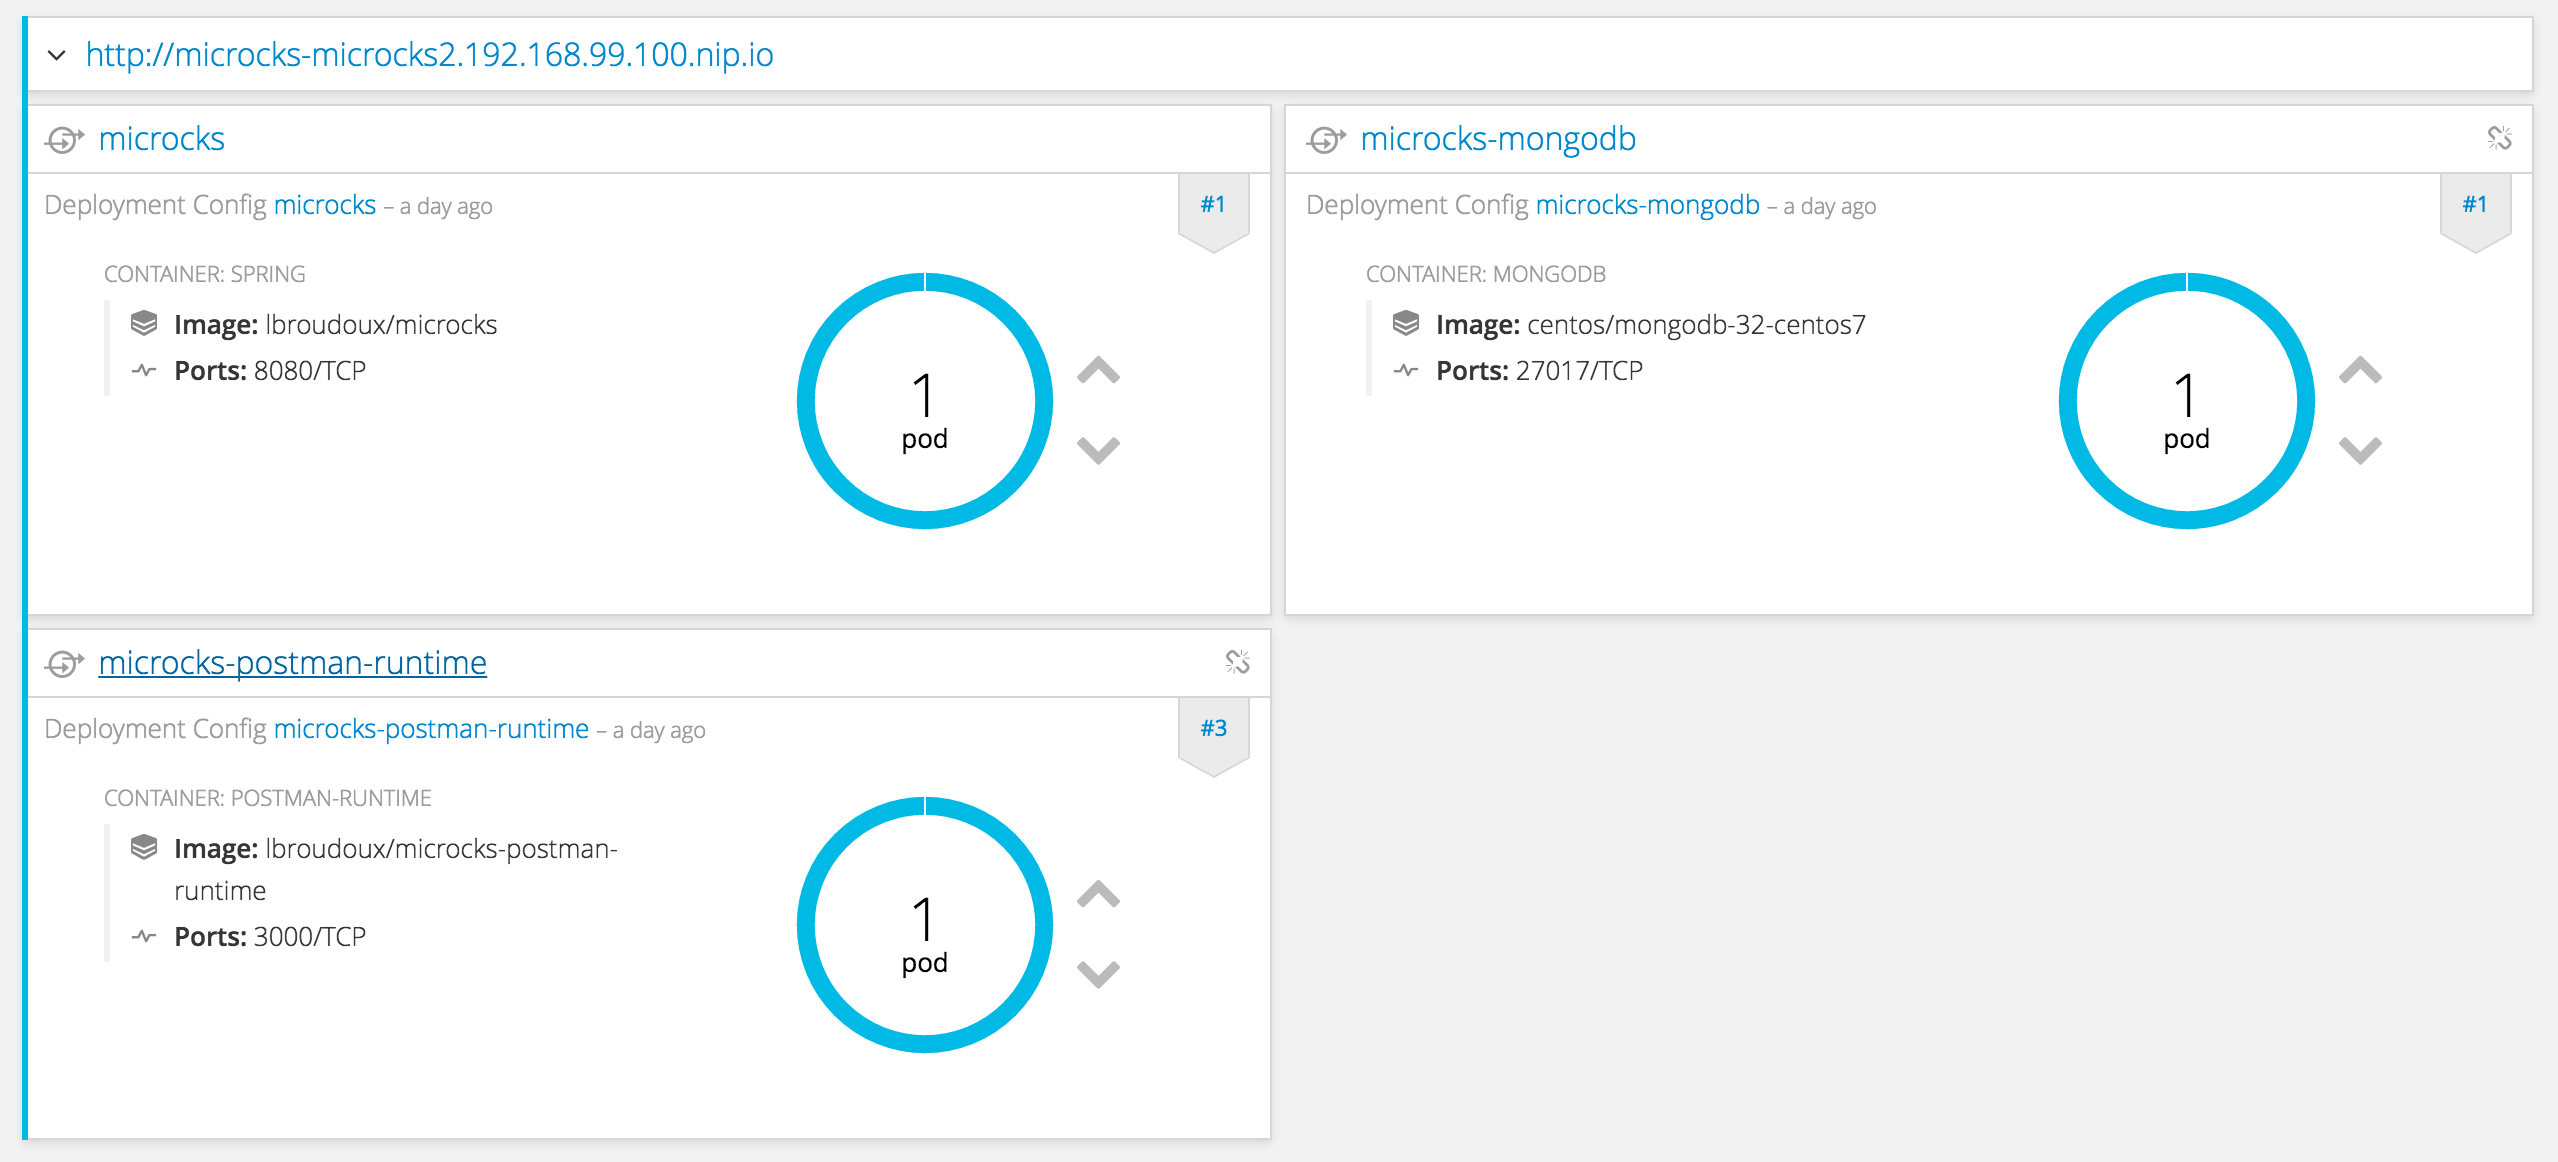
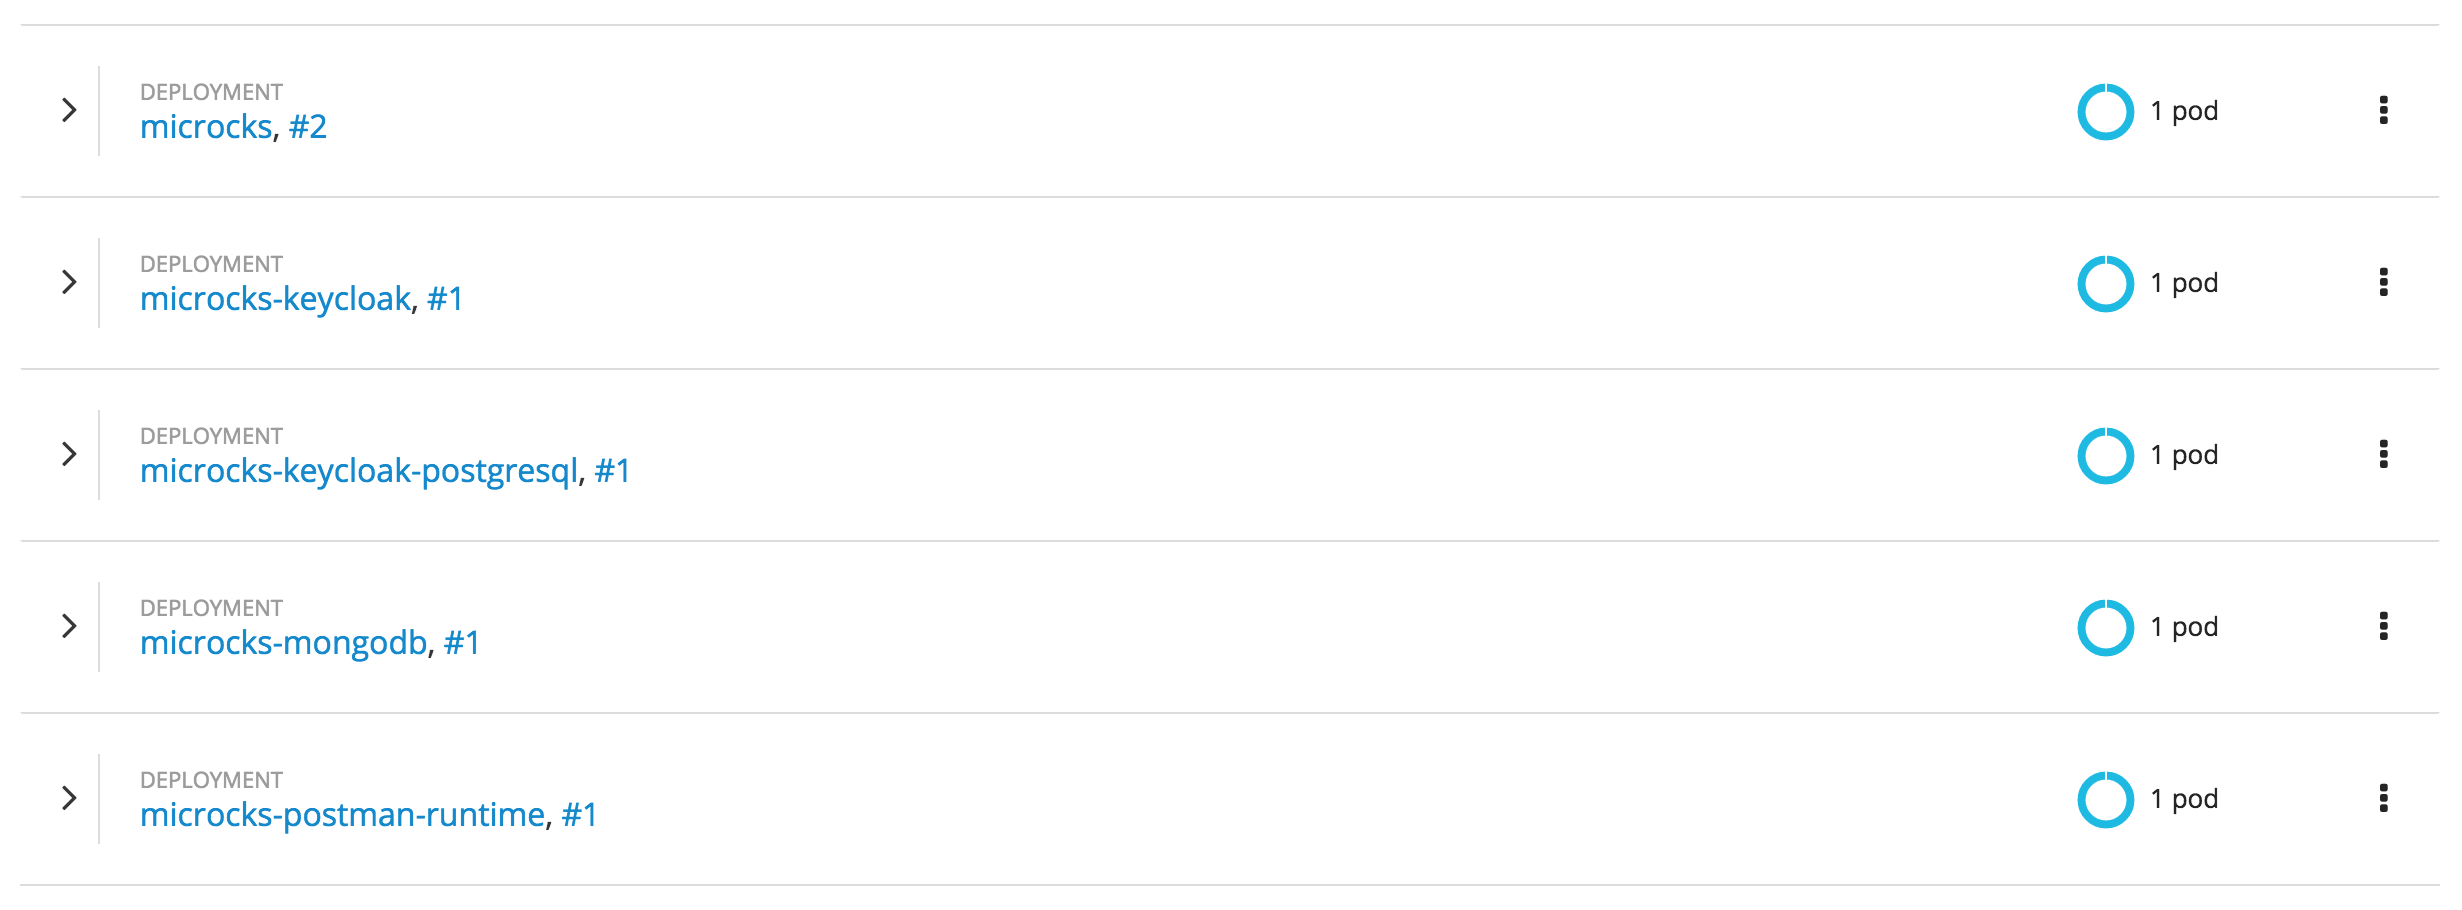
Update documentation on installation

diff --git a/using/index.md b/using/index.md
@@ -24,7 +24,7 @@ title: Getting started
 
 			<h3 class="arvo">Installing on OpenShift</h3>
 			<p>
-				The easiest way of installing Microcks is to do it on OpenShift. It is assumed that you have some kind of OpenShift cluster instance running and available. This instance can take several forms depending on your environment and needs :
+				The easiest way of installing Microcks for production use is to do it on OpenShift. OpenShift in version 3.6 or greater is required. It is assumed that you have some kind of OpenShift cluster instance running and available. This instance can take several forms depending on your environment and needs :
 				<ul>
 					<li> Full blown OpenShift cluster at your site, see how to <a href="https://docs.openshift.com/container-platform/3.3/install_config/index.html">Install OpenShift at your site</a>,</li>
 					<li>Red Hat Container Development Kit on your laptop, see how to <a href="http://developers.redhat.com/products/cdk/get-started/">Get Started with CDK</a>,</li>
@@ -36,32 +36,38 @@ title: Getting started
 				<code>oc create -f https://raw.githubusercontent.com/microcks/microcks/master/openshift-persistent-template.json -n openshift</code><br/>
 
 				<br/>
-				Once this is done can now create a new project and instanciate the template of your choice ; either using the OpenShift web console or the command line.<br/><br/>
+				Once this is done can now create a new project and instanciate the template of your choice ; either using the OpenShift web console or the command line. You will need to fill up some parameters during creation such as:<ul>
+				 	<li>the hostname for routes serving Microcks and embedded Keycloak (typically <code>component_name-project-app_domain</code>),</li>,
+					<li>the URL for joining OpenShift Master,</li>
+					<li>a name for an OAuth Client that will be created apart the app creation.</li>
+				</ul>
+				Typically, you'll got this kind of commands for a local Minishift instance:<br/><br/>
 				<code>oc new-project microcks --display-name="Microcks"</code><br/>
-				<code>oc new-app --template=microcks-persistent</code><br/>
+				<code>oc new-app --template=microcks-persistent --param=APP_ROUTE_HOSTNAME=microcks-microcks.192.168.99.100.nip.io --param=KEYCLOAK_ROUTE_HOSTNAME=keycloak-microcks.192.168.99.100.nip.io --param=OPENSHIFT_MASTER=https://192.168.99.100:8443 --param=OPENSHIFT_OAUTH_CLIENT_NAME=microcks-client</code><br/>
 
 				<br/>
-				After some minutes and components have been deployed, you should end up with a Spring-boot Pod, a MongoDB Pod and a Postman-runtime Pod like in the screenshot below.<br/>
+				After some minutes and components have been deployed, you should end up with a Spring-boot Pod, a MongoDB Pod, a Postman-runtime Pod, a Keycloak Pod and a PostgreSQL Pod like in the screenshot below.<br/>
 			</p>
 			<img src="../assets/images/running-pods.png" class="img-responsive"/>
 			<p>
-				 Now you can retrieve the URL of the created route using <code>oc get routes</code> command and navigate to this URL to get started with Microcks. Depending on your environment, URL should be something like <code>http://microcks-microcks.192.168.99.100.nip.io</code>.
+				 Now you can retrieve the URL of the created route using <code>oc get routes</code> command and navigate to this URL to get started with Microcks. Depending on your environment, URL should be something like <code>http://microcks-microcks.192.168.99.100.nip.io</code>. By default, Microcks integrates with OpenShift identity provider through the use of Keycloak but you may configure some other providers later.
 			</p>
 
 			<h3 class="arvo">Installing using Docker Compose</h3>
 			<p>
-				For those of you familiar with simple Docker Compose, a <source>docker-compose</source> file is available within GitHub repository and can be used to rapidly test up things. First step is to download the file and then to execute docker-compose with local copy like in this commands :<br/><br/>
-				<code>curl -o microcks-mongodb.yml https://raw.githubusercontent.com/microcks/microcks/master/src/main/docker/microcks-mongodb.yml</code><br/>
+				For those of you familiar with simple Docker Compose, a <source>docker-compose</source> file is available within GitHub repository and can be used to rapidly test up things. First step is to download the file and then to execute docker-compose with local files copies like in this commands :<br/><br/>
+				<code>mkdir keycloak-realm && cd keycloak-realm && curl -o microcks-realm-sample.json https://raw.githubusercontent.com/microcks/microcks/master/src/main/docker/keycloak-realm/microcks-realm-sample.json && cd .. && curl -o microcks-mongodb.yml https://raw.githubusercontent.com/microcks/microcks/master/src/main/docker/microcks-mongodb.yml</code><br/>
 				<code>docker-compose -f microcks-mongodb.yml up -d</code><br/>
 
 				<br/>
-				After some minutes and components have been deployed, you should end up with a Spring-boot container, a MongoDB container and a Postman-runtime container like in the trace below. The Microcks application is now available on <code>http://localhost:8080</code> URL.
+				After some minutes and components have been deployed, you should end up with a Spring-boot container, a MongoDB container, a Postman-runtime and a Keycloak container like in the trace below. The default user is <code>admin</code> with <code>123</code> password. The Microcks application is now available on <code>http://localhost:8080</code> URL.
 				<pre><code>
 » docker ps
-CONTAINER ID        IMAGE                                       COMMAND                  CREATED             STATUS              PORTS                    NAMES
-65a8e05866fa        lbroudoux/microcks:latest                   "java '-Dspring.pr..."   8 seconds ago       Up 5 seconds        0.0.0.0:8080->8080/tcp   microcks
-2fed928539f1        mongo:3.3.12                                "/entrypoint.sh mo..."   9 minutes ago       Up 7 seconds        27017/tcp                microcks-mongo
-8e7a71d0fc8d        lbroudoux/microcks-postman-runtime:latest   "node app.js"            9 minutes ago       Up 7 seconds        3000/tcp                 microcks-postman-runtime
+CONTAINER ID        IMAGE                                      COMMAND                  CREATED             STATUS              PORTS                    NAMES
+6a563e9d87c1        microcks/microcks:latest                  "/bin/sh -c 'exec ..."   6 days ago          Up 33 seconds       0.0.0.0:8080->8080/tcp   microcks
+162e99a97a6f        microcks/microcks-postman-runtime:latest   "node app.js"            6 days ago          Up 39 seconds       3000/tcp                 microcks-postman-runtime
+b3cb4840597b        mongo:3.3.12                               "/entrypoint.sh mo..."   6 days ago          Up 39 seconds       27017/tcp                microcks-mongo
+949e0b9bdac6        jboss/keycloak:3.4.0.Final                 "/opt/jboss/docker..."   6 days ago          Up 38 seconds       0.0.0.0:8180->8080/tcp   microcks-keycloak
 				</code></pre>
 			</p>
 

diff --git a/using/dynamic.md b/using/dynamic.md
@@ -13,7 +13,7 @@ title: Getting dynamic mocks
     <section id="dynamic-mocks" class="article">
       <h2 class="arvo">Creating dynamic mocks</h2>
       <p>
-        Eventhough Microcks promotes a contract first approach for defining mocks, we are well aware that in real-life it may be difficult starting that way without a great maturity on API and Service contracts. We often meet situations when design and development teams need to play a bit with a fake API to really figure out their needs and how they should then design API contract. In order to help with those situation, Microcks offers the ability to dynamically generate a generic API that you may use as a sandbox.
+        Eventhough Microcks promotes a contract first approach for defining mocks, we are well aware that in real-life it may be difficult starting that way without a great maturity on API and Service contracts. We often meet situations where design and development teams need to play a bit with a fake API to really figure out their needs and how they should then design API contract. In order to help with those situation, Microcks offers the ability to dynamically generate a generic API that you may use as a sandbox.
       </p>
       <p>
         In a few clicks, Microcks will easily generate for you a basic API with CRUD operations (CRUD for <i>Create-Retrieve-Update-Delete</i>) and associated mocks that you'll be able to use for recording, retrieving and deleting any type of JSON document. In order to use this "Backend As A Service" like feature, just go to the <b>Services</b> repository and hit the <code>Add Dynamic Service...</code> button:
